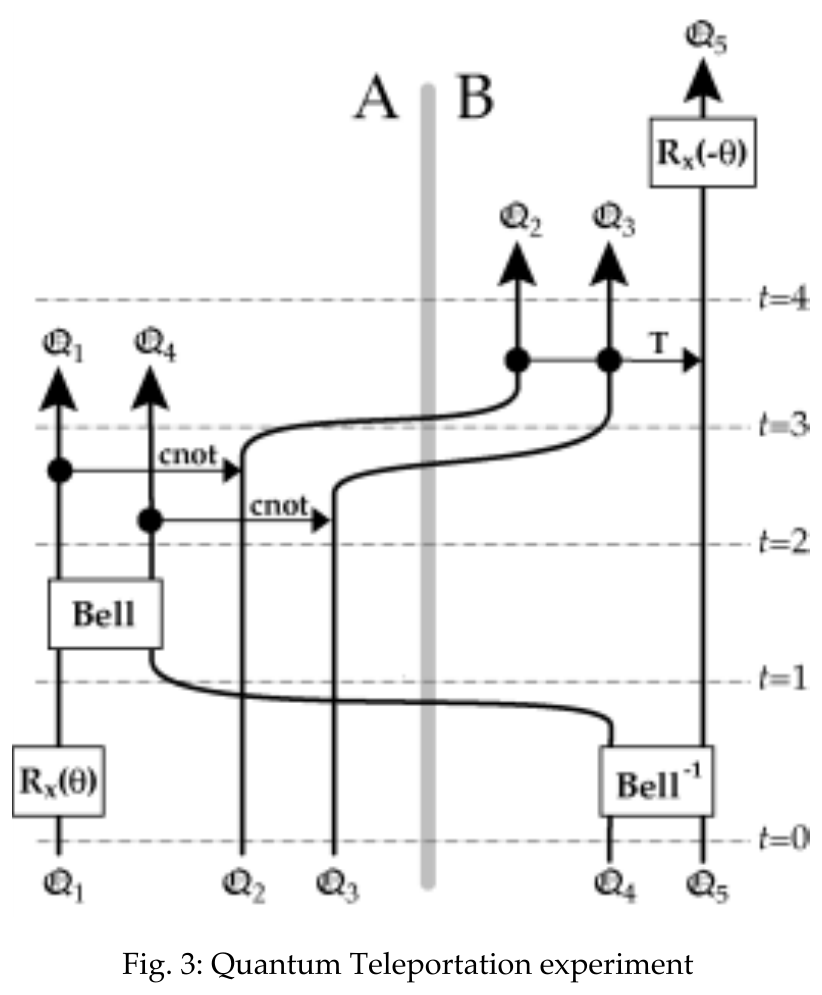
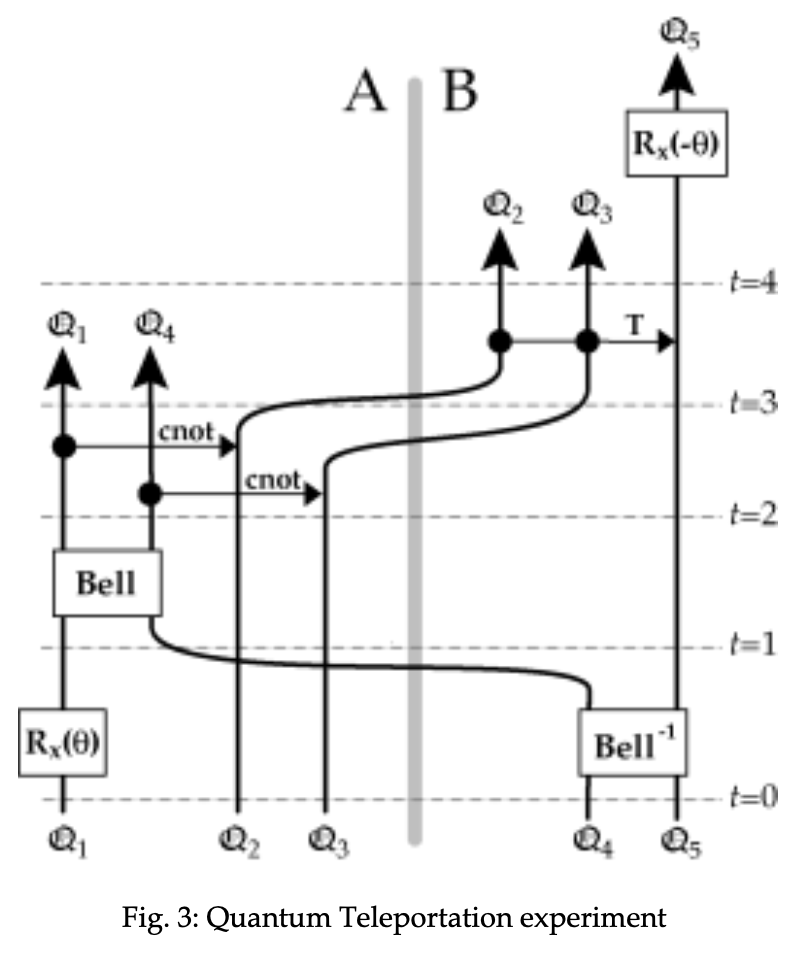
.

diff --git a/deutsch-2000/deutsch-2000-corrected.md b/deutsch-2000/deutsch-2000-corrected.md
@@ -354,7 +354,7 @@ In general, since the $\mathbf{cnot}$ gate together with gates of the type $\mat
 
 For example, the gate that performs the so-called Bell transformation on two qubits (Braunstein *et al.* (1992)) is equivalent to the network shown on the right of the equals sign in Fig. 1. (Gates other than $\mathbf{cnot}$ are represented by rectangles, the vertical lines represent the paths of qubits, and the arrows at the top indicate their direction of motion.)
 
-![Fig. 1: The Bell Gate](images-verified/figure-1-bell-gate.png)
+![Fig. 1: The Bell Gate](images/figure-1-bell-gate.png)
 
 Since both $\mathbf{cnot}$ and $\mathbf{H}$ are their own inverses, the same network upside-down (*i.e.* with $\mathbf{H}$ preceding $\mathbf{cnot}$) performs the inverse of the Bell transformation. It follows that the effect of the $\mathbf{Bell}$ gate is
 
@@ -417,7 +417,7 @@ $$
 
 The quantum computational network for performing an Einstein–Podolski–Rosen (EPR) experiment is shown in Fig. 2. Since this is the archetypal experiment that has been thought to demonstrate the nonlocal nature of information in quantum physics, it is instructive to trace the paths that information takes during the course of such an experiment. In particular, we shall trace how quantum information about the value of an angle $\phi$, chosen arbitrarily in a region B, reaches a distant region A.
 
-![Fig. 2: An Einstein-Podolski-Rosen Experiment](images-verified/figure-2-epr-experiment.png)
+![Fig. 2: An Einstein-Podolski-Rosen Experiment](images/figure-2-epr-experiment.png)
 
 Starting at time $t=0$ with four qubits $\mathfrak{Q}_1,\ldots,\mathfrak{Q}_4$ in the standard state $\lvert 0,0,0,0;0\rangle$, we entangle $\mathfrak{Q}_2$ with $\mathfrak{Q}_3$ by performing the inverse $\mathbf{Bell}$ operation (21). In Schrödinger-picture terminology they are now in the state
 
@@ -669,7 +669,7 @@ It is easily verified that the result of the experiment would be unchanged if $\
 
 The very term ‘teleportation’ was chosen by the discoverers of the phenomenon (Bennett *et al.* (1993)) because it was deemed to be a spectacular example of information from one location A appearing at another location B without being carried there in any physical object travelling from A to B – *i.e.* without information flow.
 
-![Fig. 3: Quantum Teleportation experiment](images-verified/figure-3-quantum-teleportation.png)
+![Fig. 3: Quantum Teleportation experiment](images/figure-3-quantum-teleportation.png)
 
 A quantum computational network for demonstrating teleportation is shown in Fig. 3. The information of interest is the angle $\theta$ through which, at $t=0$, we choose to rotate the qubit $\mathfrak{Q}_1$, located at A, about its $x$-axis. More generally, the $\mathbf{R}_x(\theta)$ gate could be replaced by an arbitrary single-qubit gate that prepared $\mathfrak{Q}_1$ in an arbitrary pure state, which the network would ‘teleport’ to $\mathfrak{Q}_5$ at the distant location B, but for simplicity we are restricting ourselves to a one-parameter family of states. We have
 

diff --git a/deutsch-2000/deutsch-2000-verified.md b/deutsch-2000/deutsch-2000-verified.md
@@ -354,7 +354,7 @@ In general, since the $\mathbf{cnot}$ gate together with gates of the type $\mat
 
 For example, the gate that performs the so-called Bell transformation on two qubits (Braunstein *et al.* (1992)) is equivalent to the network shown on the right of the equals sign in Fig. 1. (Gates other than $\mathbf{cnot}$ are represented by rectangles, the vertical lines represent the paths of qubits, and the arrows at the top indicate their direction of motion.)
 
-![Fig. 1: The Bell Gate](images-verified/figure-1-bell-gate.png)
+![Fig. 1: The Bell Gate](images/figure-1-bell-gate.png)
 
 Since both $\mathbf{cnot}$ and $\mathbf{H}$ are their own inverses, the same network upside-down (*i.e.* with $\mathbf{H}$ preceding $\mathbf{cnot}$) performs the inverse of the Bell transformation. It follows that the effect of the $\mathbf{Bell}$ gate is
 
@@ -417,7 +417,7 @@ $$
 
 The quantum computational network for performing an Einstein–Podolski–Rosen (EPR) experiment is shown in Fig. 2. Since this is the archetypal experiment that has been thought to demonstrate the nonlocal nature of information in quantum physics, it is instructive to trace the paths that information takes during the course of such an experiment. In particular, we shall trace how quantum information about the value of an angle $\phi$, chosen arbitrarily in a region B, reaches a distant region A.
 
-![Fig. 2: An Einstein-Podolski-Rosen Experiment](images-verified/figure-2-epr-experiment.png)
+![Fig. 2: An Einstein-Podolski-Rosen Experiment](images/figure-2-epr-experiment.png)
 
 Starting at time $t=0$ with four qubits $\mathfrak{Q}_1,\ldots,\mathfrak{Q}_4$ in the standard state $\lvert 0,0,0,0;0\rangle$, we entangle $\mathfrak{Q}_2$ with $\mathfrak{Q}_3$ by performing the inverse $\mathbf{Bell}$ operation (21). In Schrödinger-picture terminology they are now in the state
 
@@ -669,7 +669,7 @@ It is easily verified that the result of the experiment would be unchanged if $\
 
 The very term ‘teleportation’ was chosen by the discoverers of the phenomenon (Bennett *et al.* (1993)) because it was deemed to be a spectacular example of information from one location A appearing at another location B without being carried there in any physical object travelling from A to B – *i.e.* without information flow.
 
-![Fig. 3: Quantum Teleportation experiment](images-verified/figure-3-quantum-teleportation.png)
+![Fig. 3: Quantum Teleportation experiment](images/figure-3-quantum-teleportation.png)
 
 A quantum computational network for demonstrating teleportation is shown in Fig. 3. The information of interest is the angle $\theta$ through which, at $t=0$, we choose to rotate the qubit $\mathfrak{Q}_1$, located at A, about its $x$-axis. More generally, the $\mathbf{R}_x(\theta)$ gate could be replaced by an arbitrary single-qubit gate that prepared $\mathfrak{Q}_1$ in an arbitrary pure state, which the network would ‘teleport’ to $\mathfrak{Q}_5$ at the distant location B, but for simplicity we are restricting ourselves to a one-parameter family of states. We have
 